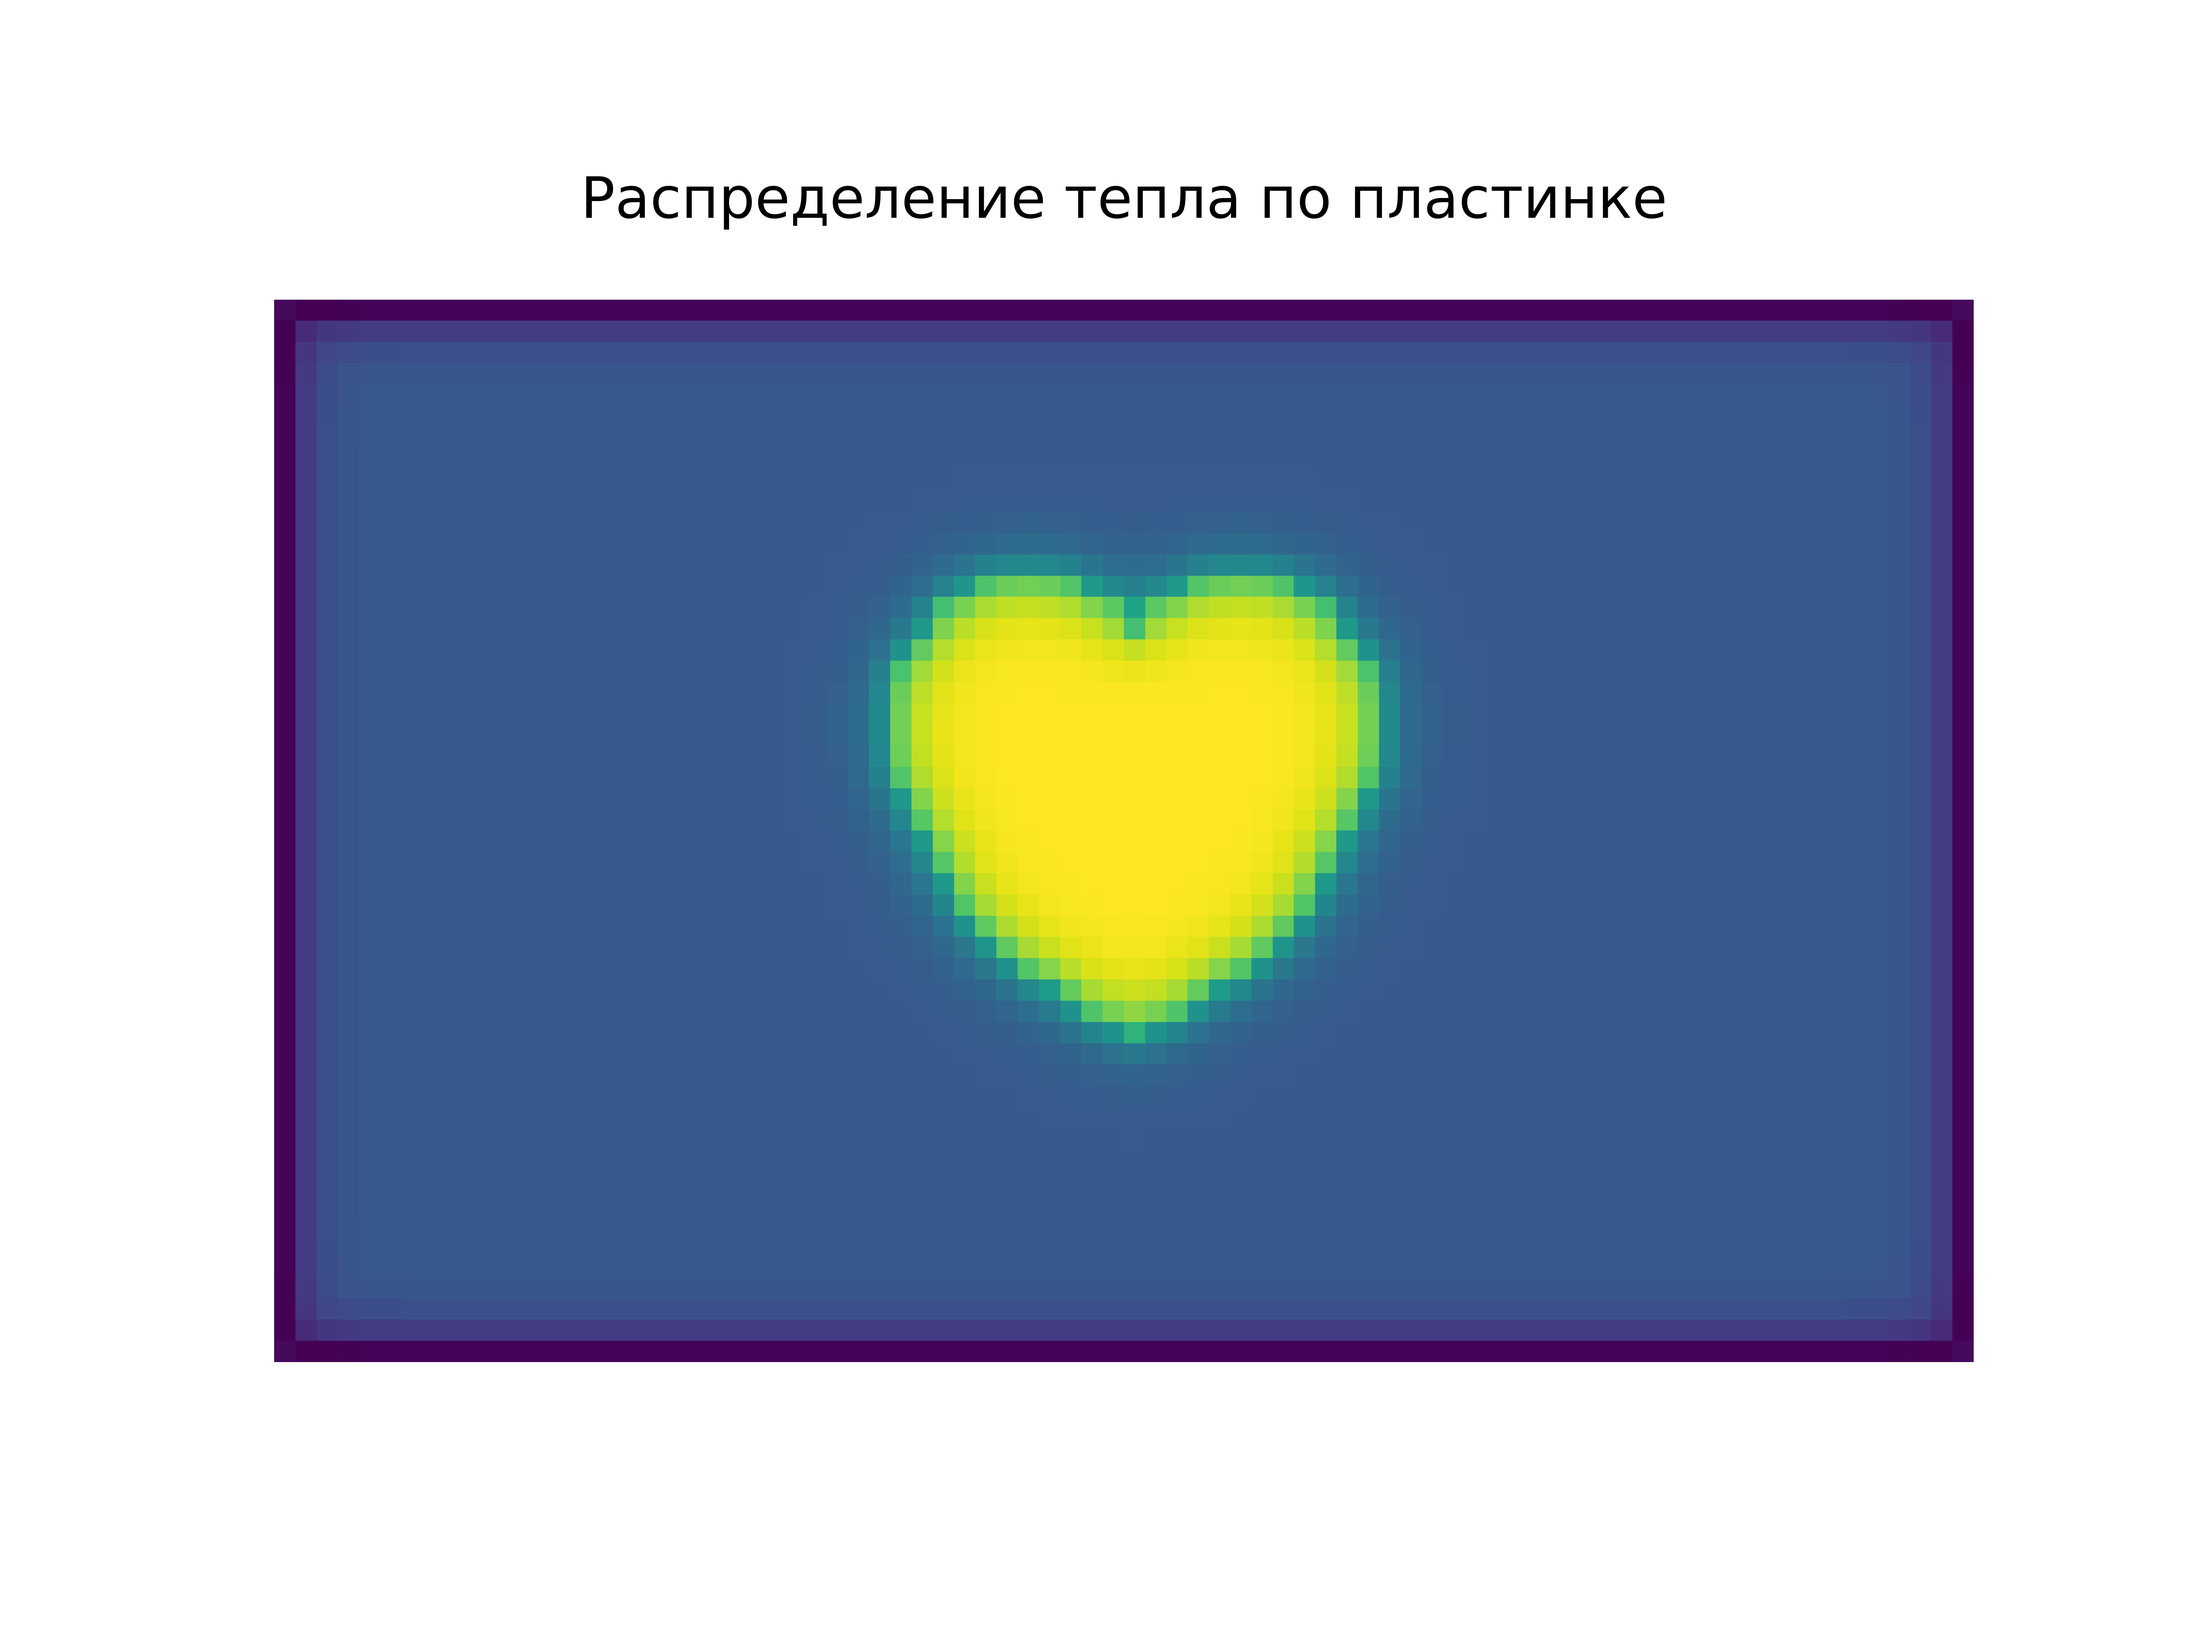
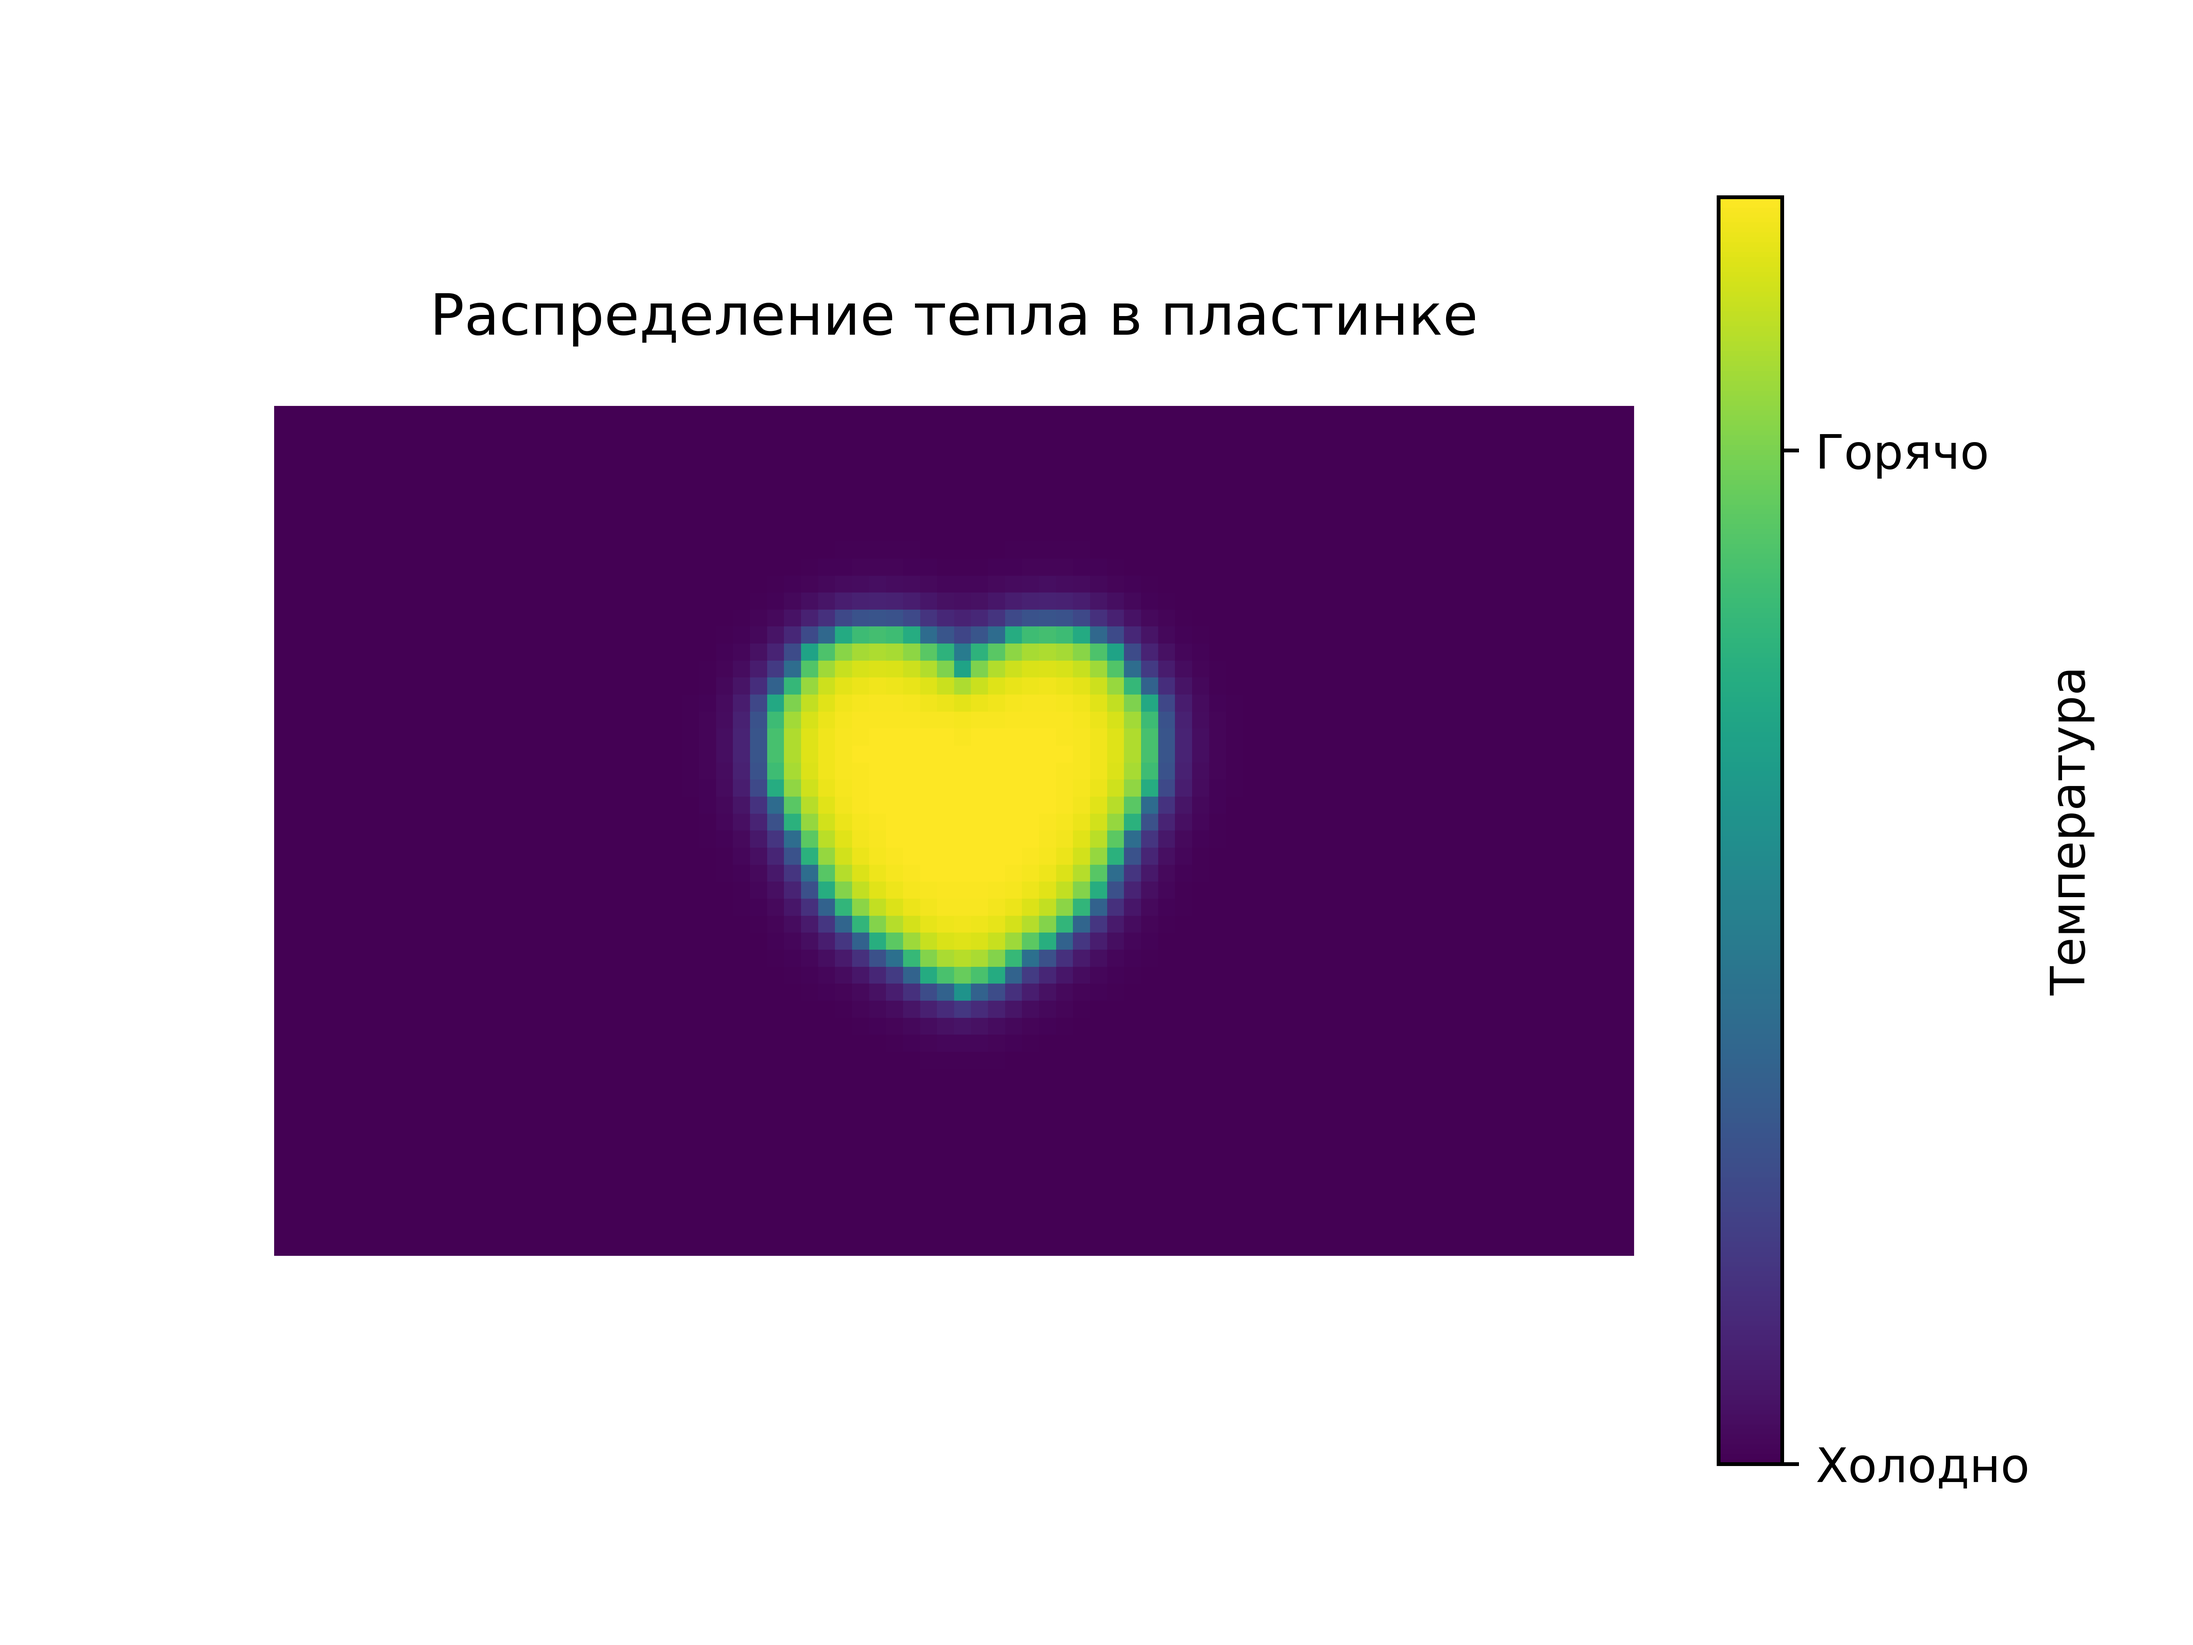
changed something

diff --git a/1/main.cpp b/1/main.cpp
@@ -69,31 +69,40 @@ void FillInitialValues(double* A, double* b, int N) {
 
 int main(int argc, char** argv) {
     double start, end;
-    const int N = 1000;
+    int N;
 
     // === Initialize MPI ===
 
     MPI_Init(&argc, &argv);
     MPI_Comm_size(MPI_COMM_WORLD, &p_count);
     MPI_Comm_rank(MPI_COMM_WORLD, &p_rank);
-
-    const int MAX_PART_SIZE = N / p_count + 3;
-
     // === Load data and split data across processes ===
-    
-    double* A_part = new double[MAX_PART_SIZE * N];
-    double* b_part = new double[MAX_PART_SIZE];
-
     double* A;
     double* b;
+
+    if (p_rank == 0) {
+        std::ifstream f("input.dat");
+        f >> N;
+        DEBUG(N);
+        A = new double[N*N];
+        b = new double[N];
+        for (int i = 0; i < N*N; i++) {
+            f >> A[i];
+        }
+        for (int i = 0; i < N; i++) {
+            f >> b[i];
+        }
+    }
+    MPI_Bcast(&N, 1, MPI_INT, 0, MPI_COMM_WORLD);
+
     double* x = new double[N];
     fill(x, N, 0.0);
 
-    if (p_rank == 0) {
-        A = new double[N*N];
-        b = new double[N];
-        FillInitialValues(A, b, N);
-    }
+
+    const int MAX_PART_SIZE = N / p_count + 3;
+
+    double* A_part = new double[MAX_PART_SIZE * N];
+    double* b_part = new double[MAX_PART_SIZE];
 
     int* b_starts = new int[p_count];
     int* b_sizes = new int[p_count];
@@ -126,7 +135,6 @@ int main(int argc, char** argv) {
     double* part_buf1 = new double[b_sizes[p_rank]];
     double* full_buf = new double[N];
 
-    //
     if (p_rank == 0) {
         start = MPI_Wtime();
     }
@@ -156,7 +164,7 @@ int main(int argc, char** argv) {
     r_square = scalar(r, r, N);
 
     // 2 - main cycle
-    int i = 0;
+    // int i = 0;
     int converges = false;
     while (!converges) {
         // if (p_rank == 0) {
@@ -205,6 +213,9 @@ int main(int argc, char** argv) {
 
         // mulMV(A, x, N, z);
         // for (int i = 0; i < N; i++) {
+        //     DEBUG(b[i]);
+        //     DEBUG(z[i]);
+        //     DEBUG(x[i]);
         //     std::cout << fabs(z[i] - b[i]) << std::endl;
         // }
     }

diff --git a/1/calculate.py b/1/calculate.py
@@ -35,9 +35,9 @@ def plate_matrix():
                 P[i][j] = 1
             # elif (R) ** 2 <= (i - Ox)**2 + (j - Oy)**2 <= (R+1) ** 2:
             #     P[i][j] = -1
-            elif (x**2 + y**2 - 1)**3 - x**2*y**3 < -0.1:
+            if (x**2 + y**2 - 1)**3 - x**2*y**3 < 0:
                 P[i][j] = -1
-    P[Ox][Oy] = 10
+    # P[Ox][Oy] = 10
     return P
 
 def neighbors(i, j):
@@ -91,9 +91,9 @@ print(result_plate)
 
 fig = plt.figure()
 ax = fig.add_subplot(111)
-cax = ax.matshow(result_plate)
-# cb = fig.colorbar(cax, ticks=[-400, -1, 0, 1])
-# cb.ax.set_yticklabels(['Холодно', '0', 'Горячо', 'Очень горячо']) 
+cax = ax.matshow(result_plate, cmap='viridis')
+cb = fig.colorbar(cax, ticks=[-1, 0, 5], label='Температура')
+cb.ax.set_yticklabels(['Холодно', 'Холодно', 'Горячо']) 
 plt.axis('off')
-plt.title('Распределение тепла по пластинке')
+plt.title('Распределение тепла в пластинке')
 fig.savefig('plate.png', dpi=900)

diff --git a/1/nompi.cpp b/1/nompi.cpp
@@ -103,6 +103,13 @@ void solve(const double* A, const double* b, int N, double* x) {
 }
 
 int main() {
+    int Nx = 30, Ny = 30;
+    int N = Nx*Ny;
+    double* A = new double[N];
+    
+
+    exit(0);
+
     const int N = 1000;
     // === 1 ===
     // Matrix A(N);
